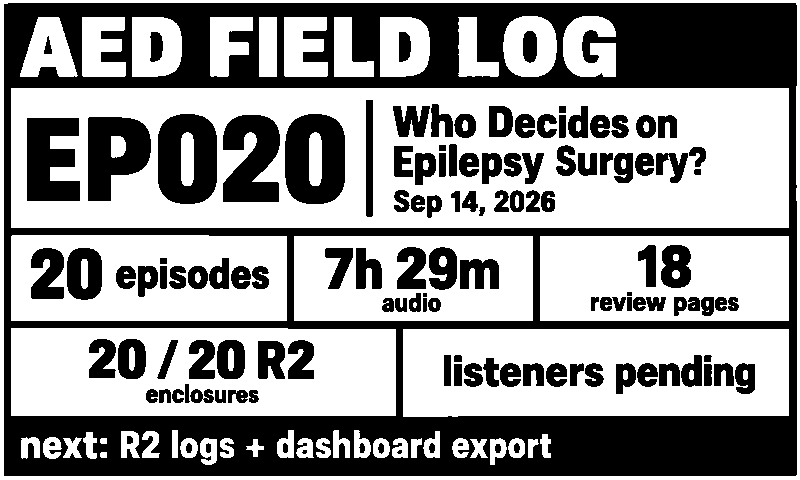
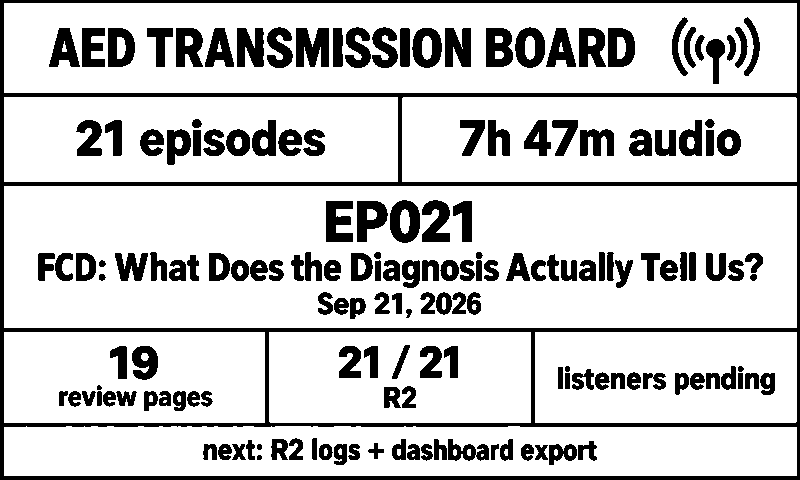
Refresh AED transmission dashboard after episode 21 publication

diff --git a/trmnl.html b/trmnl.html
@@ -32,6 +32,6 @@
   </style>
 </head>
 <body>
-  <img src="site-assets/aed-trmnl-dashboard-current.png?v=2026-09-14-1445-b0da4882076b" alt="AED Field Log: Episode 20, Who Decides on Epilepsy Surgery, published September 14, 2026">
+  <img src="site-assets/aed-trmnl-dashboard-current.png?v=2026-09-21-0706-2ea6ecd77bb5" alt="Audio Epilepsy Digest TRMNL dashboard">
 </body>
 </html>
